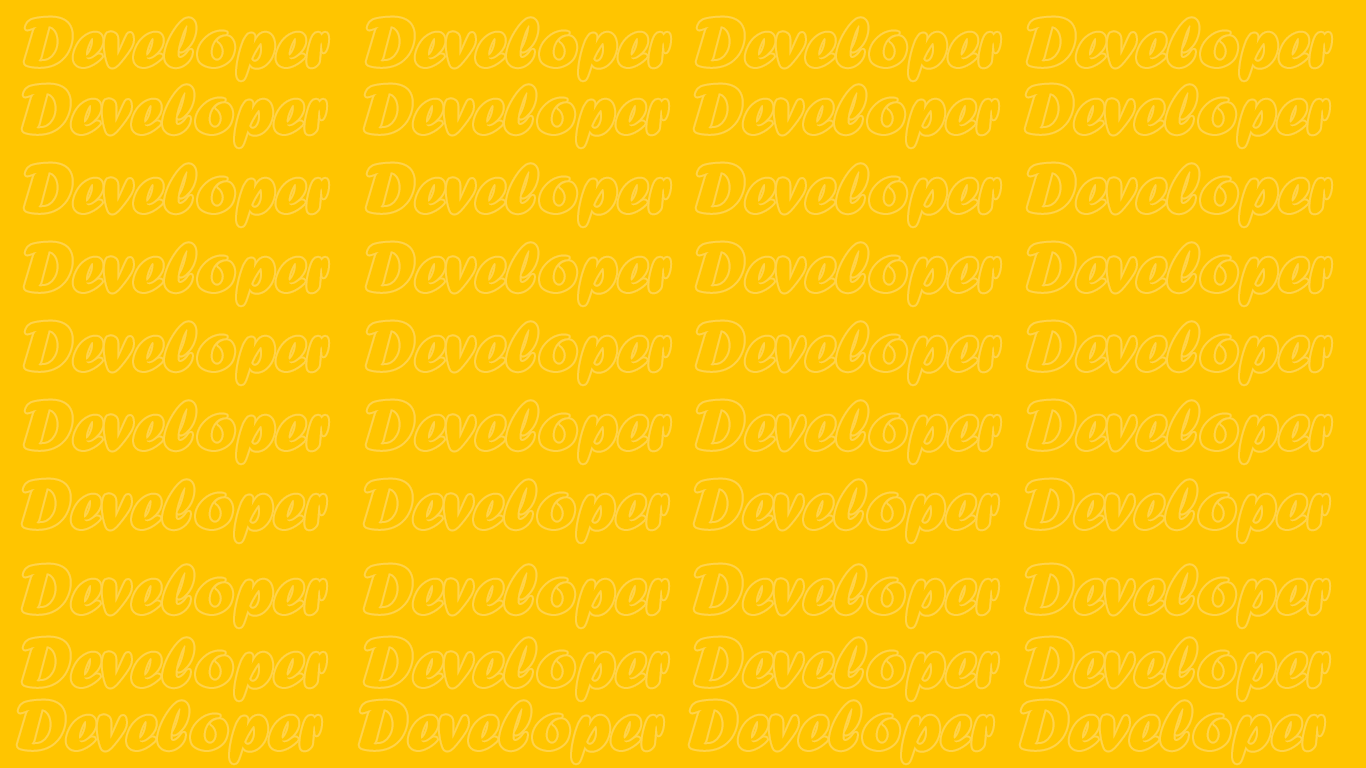
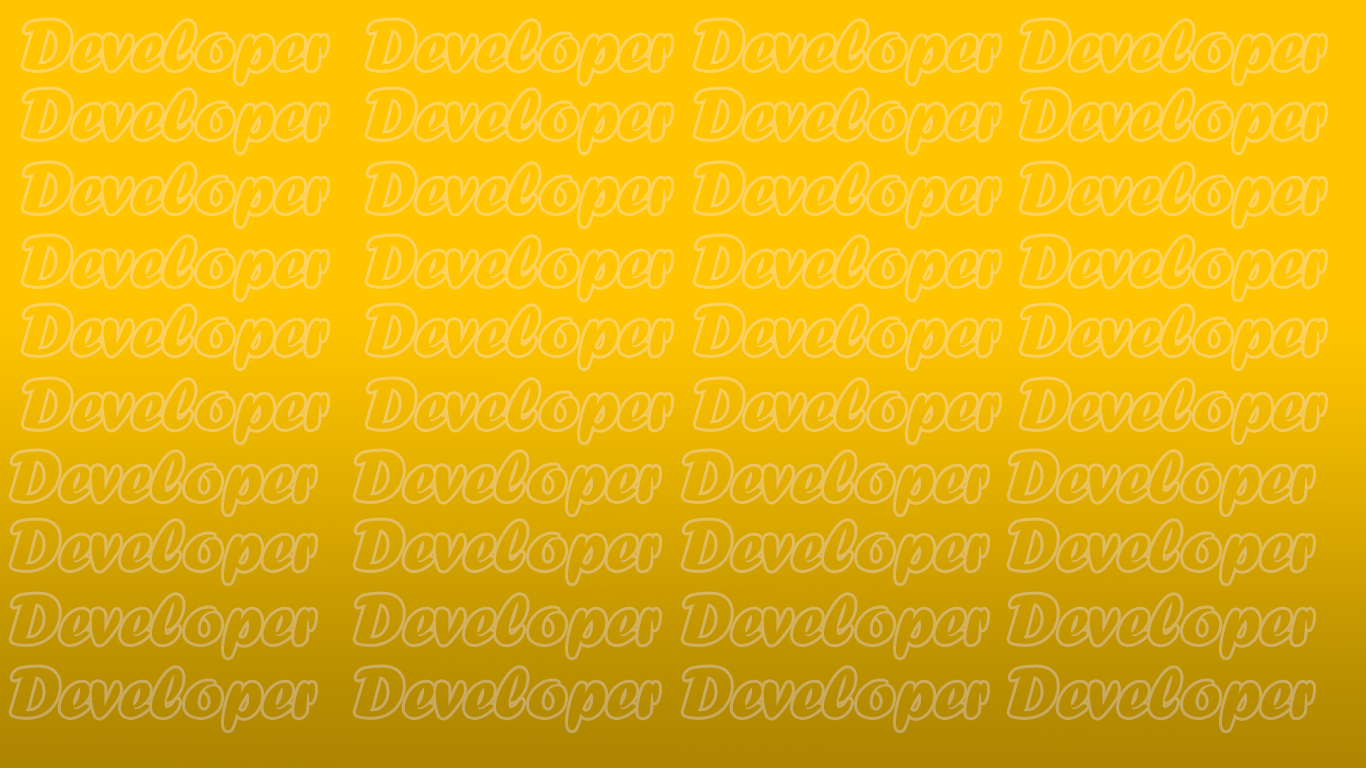
up

diff --git a/contato.html b/contato.html
@@ -22,14 +22,7 @@
         </nav>
     </header>
     <main>
-            <h1> Olá, Seja Bem Vindo!</h1>
-            <img src="img/FOTO LINKEDIN V2.png" alt="">
-           
-            <section>
-                <p>Resolvi criar este projeto para colocar em prática tudo o que já aprendi e também para você poder me conhecer melhor. </p>
-                <p>Aqui você pode conferir tudo sobre minhas qualificações, os projetos que já criei e como entrar em contato comigo. </p>
-                <p>É um prazer te receber aqui, bora conferir o restante?</p>
-            </section>
+          
         
     </main>
     <footer>

diff --git a/cursos.html b/cursos.html
@@ -22,14 +22,7 @@
         </nav>
     </header>
     <main>
-            <h1> Olá, Seja Bem Vindo!</h1>
-            <img src="img/FOTO LINKEDIN V2.png" alt="">
-           
-            <section>
-                <p>Resolvi criar este projeto para colocar em prática tudo o que já aprendi e também para você poder me conhecer melhor. </p>
-                <p>Aqui você pode conferir tudo sobre minhas qualificações, os projetos que já criei e como entrar em contato comigo. </p>
-                <p>É um prazer te receber aqui, bora conferir o restante?</p>
-            </section>
+          
         
     </main>
     <footer>

diff --git a/projetos.html b/projetos.html
@@ -22,14 +22,7 @@
         </nav>
     </header>
     <main>
-            <h1> Olá, Seja Bem Vindo!</h1>
-            <img src="img/FOTO LINKEDIN V2.png" alt="">
-           
-            <section>
-                <p>Resolvi criar este projeto para colocar em prática tudo o que já aprendi e também para você poder me conhecer melhor. </p>
-                <p>Aqui você pode conferir tudo sobre minhas qualificações, os projetos que já criei e como entrar em contato comigo. </p>
-                <p>É um prazer te receber aqui, bora conferir o restante?</p>
-            </section>
+          
         
     </main>
     <footer>

diff --git a/skilss.html b/skilss.html
@@ -22,14 +22,7 @@
         </nav>
     </header>
     <main>
-            <h1> Olá, Seja Bem Vindo!</h1>
-            <img src="img/FOTO LINKEDIN V2.png" alt="">
-           
-            <section>
-                <p>Resolvi criar este projeto para colocar em prática tudo o que já aprendi e também para você poder me conhecer melhor. </p>
-                <p>Aqui você pode conferir tudo sobre minhas qualificações, os projetos que já criei e como entrar em contato comigo. </p>
-                <p>É um prazer te receber aqui, bora conferir o restante?</p>
-            </section>
+          
         
     </main>
     <footer>

diff --git a/sobremim.html b/sobremim.html
@@ -22,14 +22,7 @@
         </nav>
     </header>
     <main>
-            <h1> Olá, Seja Bem Vindo!</h1>
-            <img src="img/FOTO LINKEDIN V2.png" alt="">
-           
-            <section>
-                <p>Resolvi criar este projeto para colocar em prática tudo o que já aprendi e também para você poder me conhecer melhor. </p>
-                <p>Aqui você pode conferir tudo sobre minhas qualificações, os projetos que já criei e como entrar em contato comigo. </p>
-                <p>É um prazer te receber aqui, bora conferir o restante?</p>
-            </section>
+          
         
     </main>
     <footer>

diff --git a/style.css b/style.css
@@ -25,10 +25,7 @@ padding: 0px;}
         }
 body{
     font-family: Arial, Helvetica, sans-serif;
-    background-color: #f8c004;
-    background-image: url(img/background.PNG);
-    background-size: contain;
-    background-position: center center;
+    background-image: linear-gradient( to bottom,#f0c023, #d8a706);
 
 }
 header {
